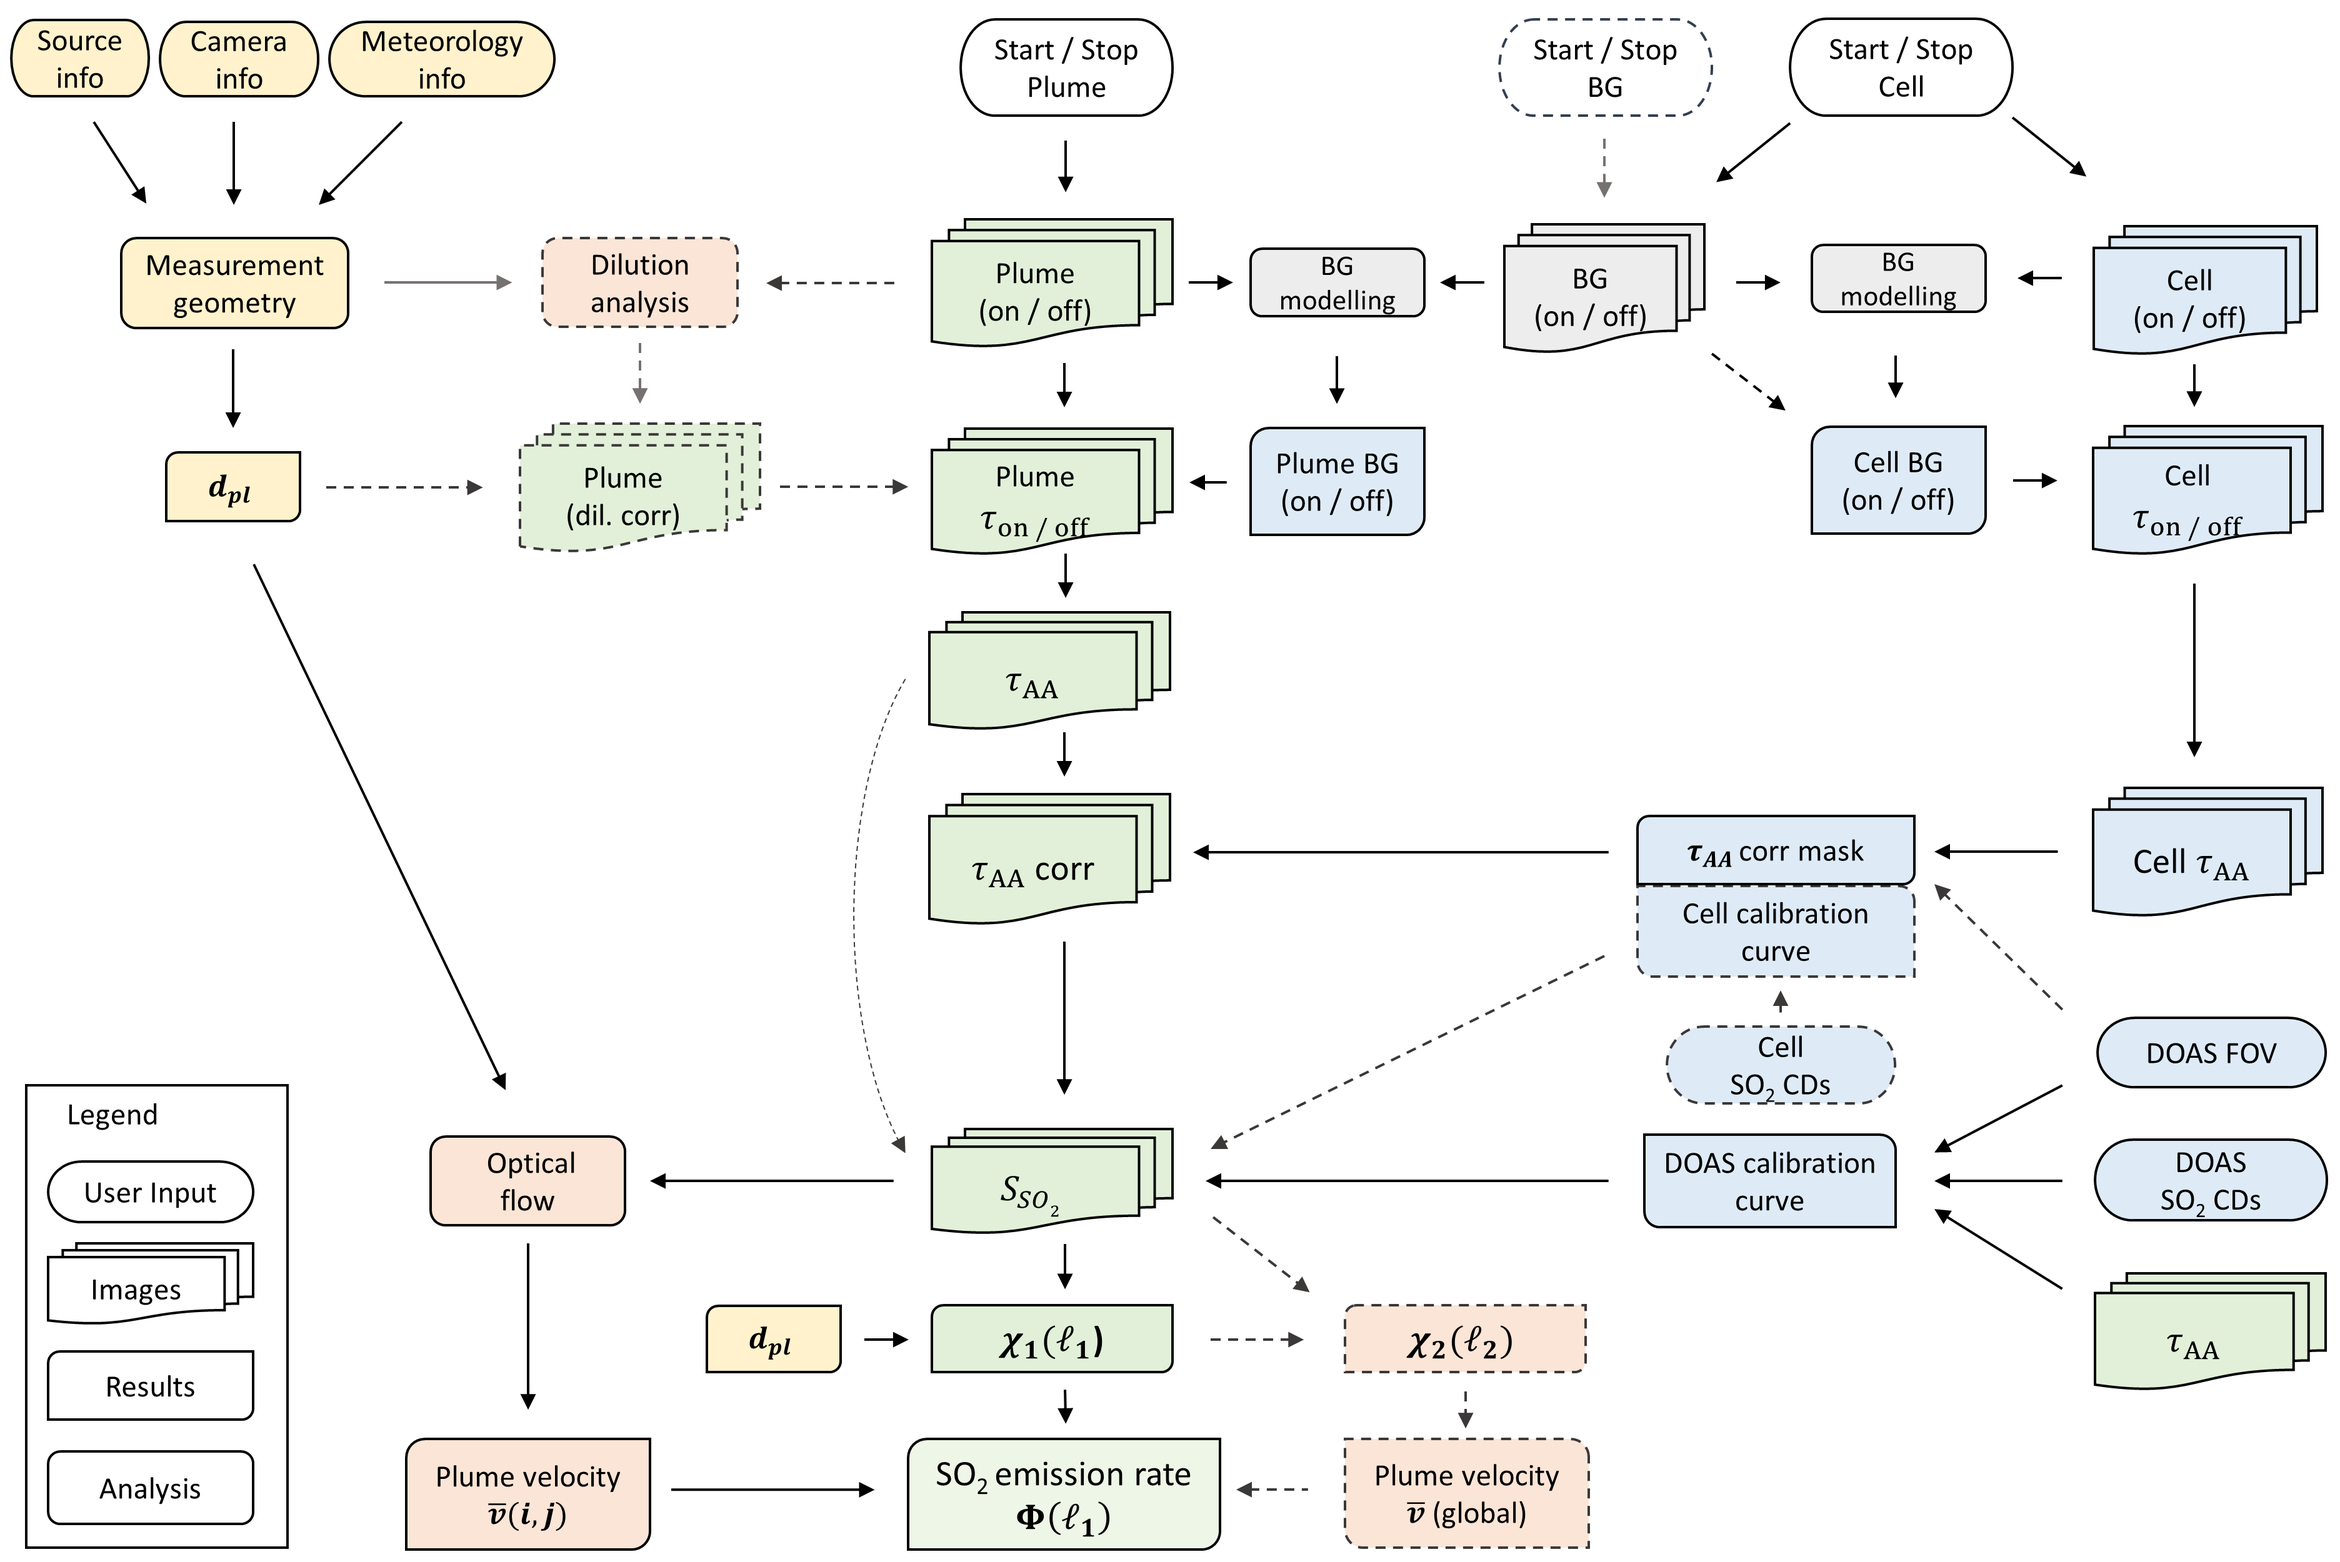
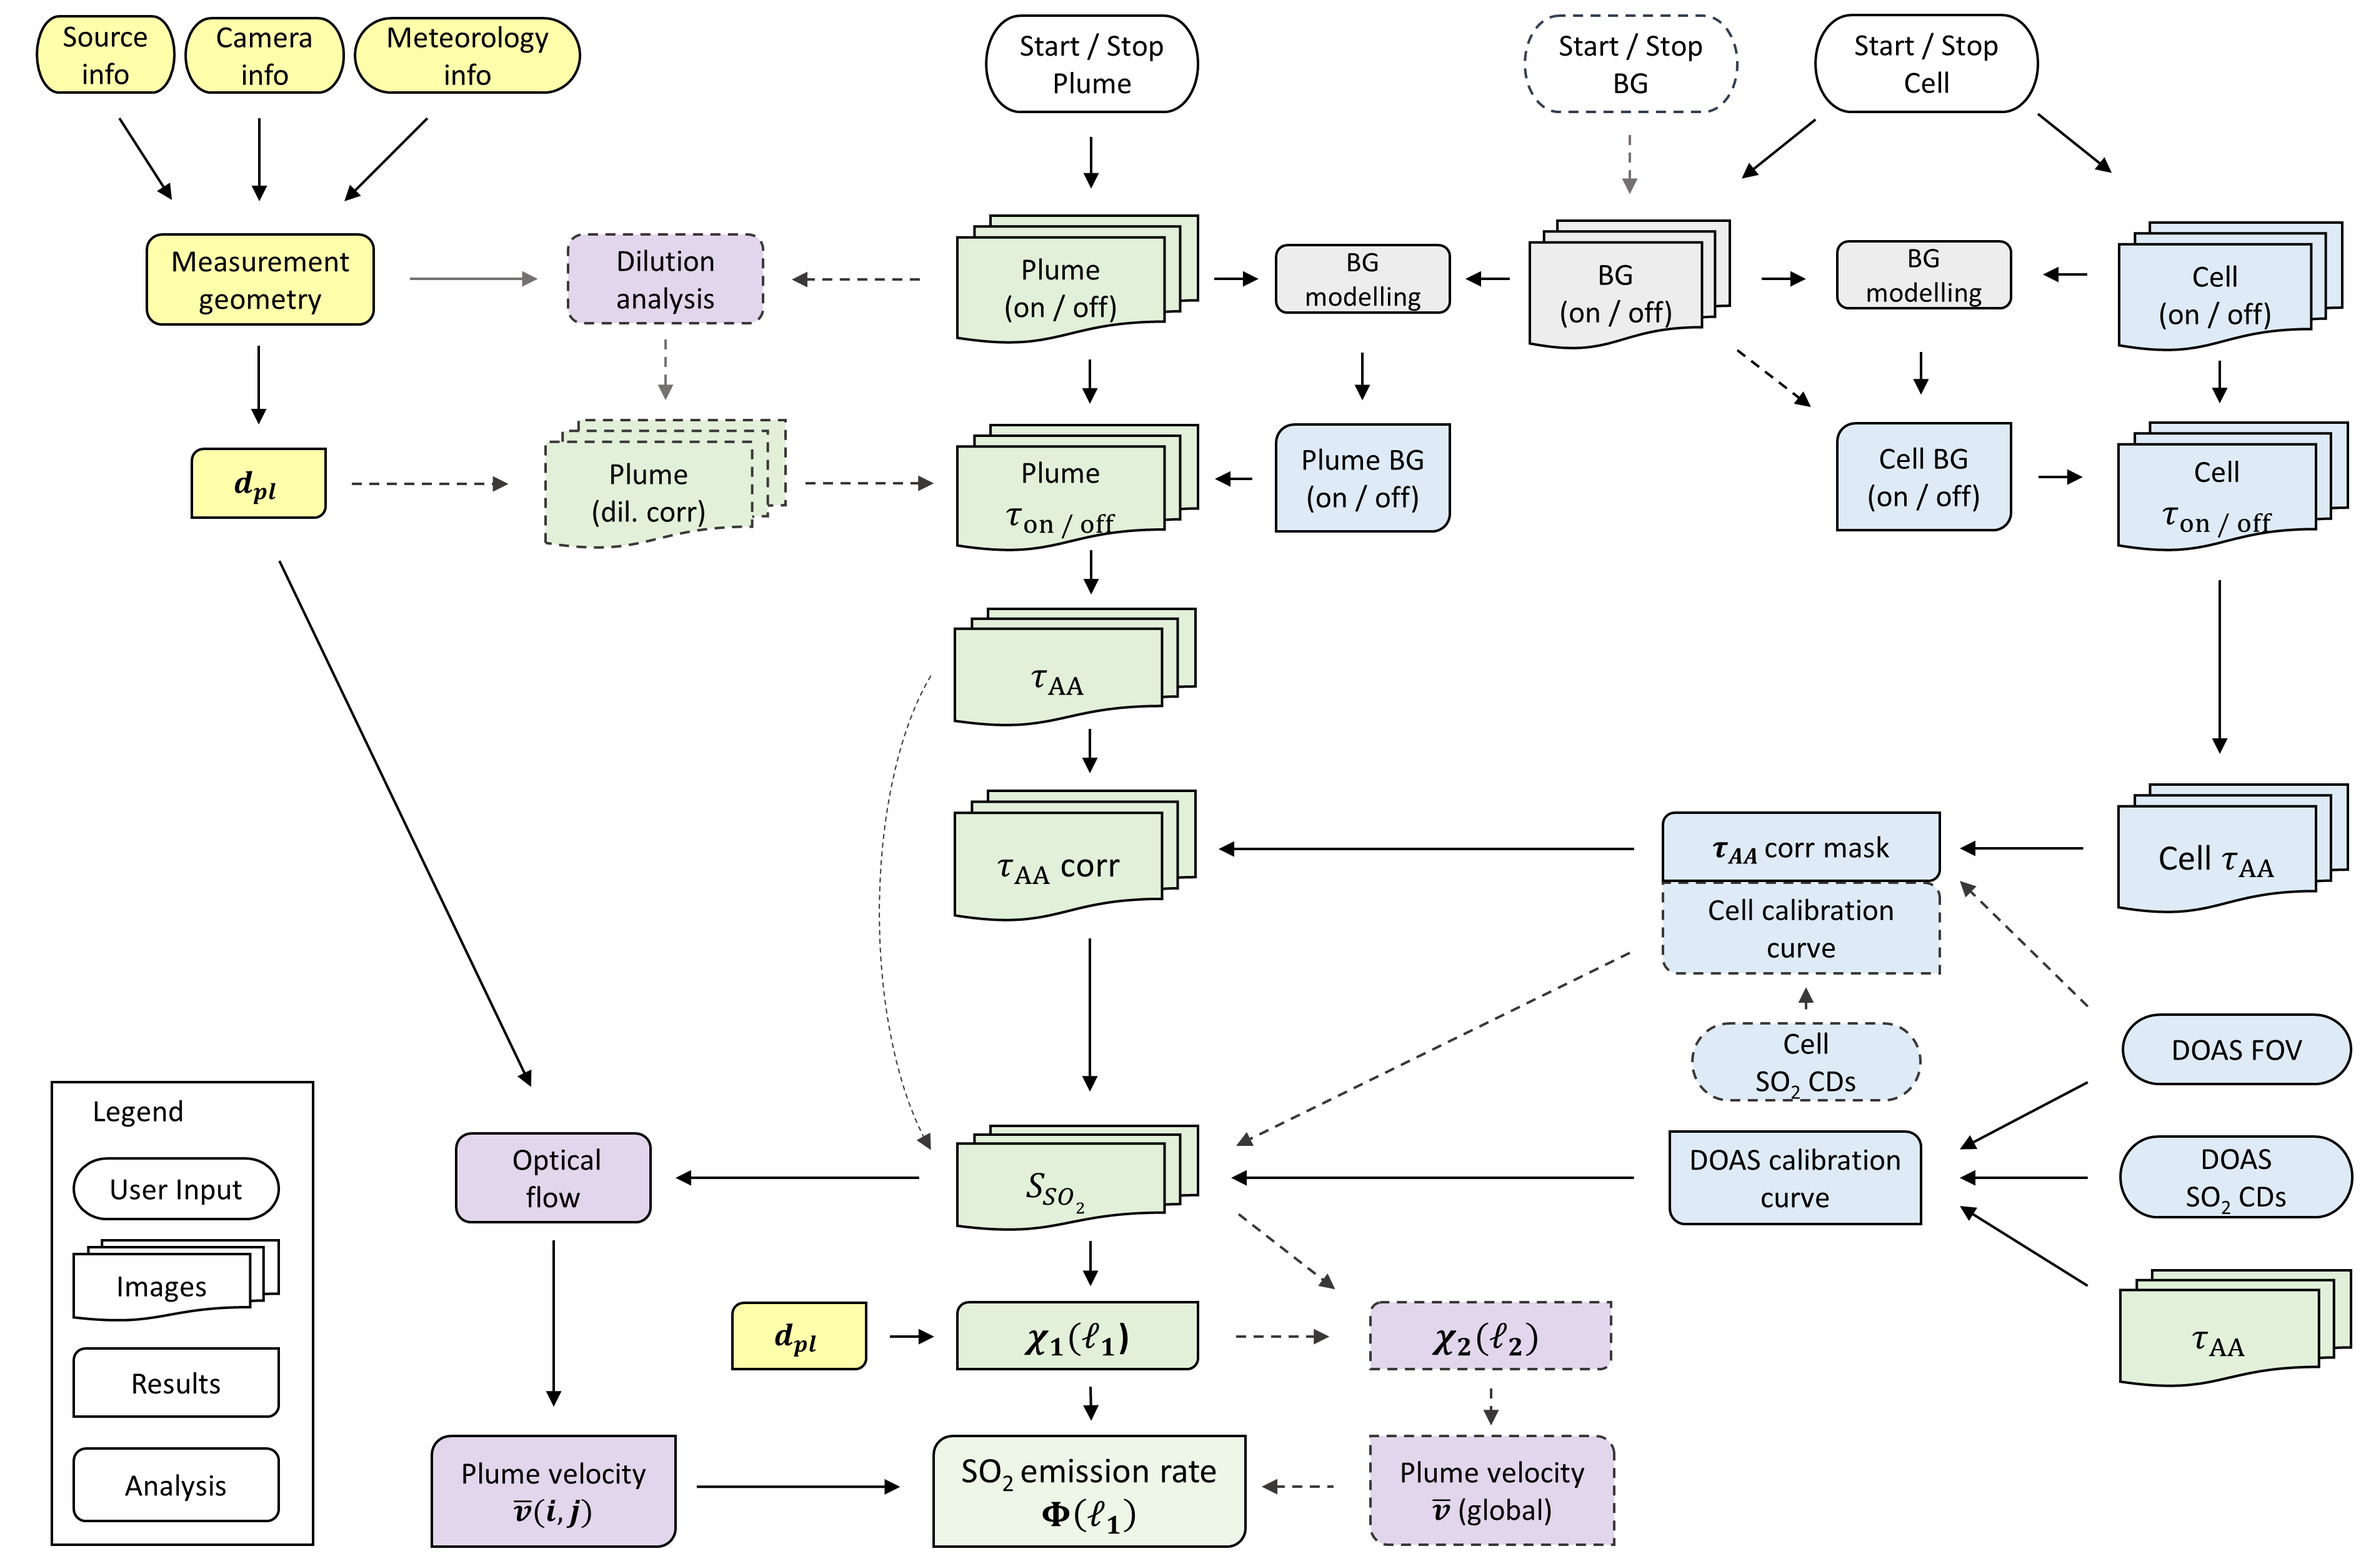
Added paper link and applied some minor changes in docs / README

diff --git a/scripts/ex11_signal_dilution.py b/scripts/ex11_signal_dilution.py
@@ -288,9 +288,9 @@ if __name__ == "__main__":
     
     # save the extinction coefficients into a txt file (re-used in example 
     # script 12). They are stored as pandas.Series object in the ImgList
-    
     onlist.ext_coeffs.to_csv(join(SAVE_DIR, "ex11_ext_scat_on.txt"))
     offlist.ext_coeffs.to_csv(join(SAVE_DIR, "ex11_ext_scat_off.txt"))
+    
     # now activate automatic dilution correction in both lists                                     
     #get dilution corrected on and off-band image
     onlist.dilcorr_mode =True
@@ -336,7 +336,7 @@ if __name__ == "__main__":
     # Calculate flux and uncertainty
     (phi_uncorr, 
      phi_uncorr_err) = pyplis.fluxcalc.det_emission_rate(cds=so2_cds_uncorr,
-                                                         velo=PLUME_VELO,
+                                                             velo=PLUME_VELO,
                                                          pix_dists=
                                                          pix_dists_line,
                                                          cds_err=

diff --git a/docs/tut_camdef.rst b/docs/tut_camdef.rst
@@ -1,9 +1,5 @@
 Data import - Specifying custom camera information
 ==================================================
-
-.. note::
-
-  In development, more information follows soon
   
 In order to use all features of pyplis, certain specifications related to camera and image acquisition need to be defined. Basic information about the camera (e.g. detector specifics) and the corresponding file convention (image type, which data can be extracted from file names) are specified within :class:`Camera` objects. This tutorial introduces the :class:`Camera` class and how to set up your custom camera type based on your data format, including definitions of your file naming convention.
 
@@ -21,12 +17,12 @@ Such a collection of :class:`Filter` and :class:`DarkOffsetInfo` objects is then
 
 These information is used to separate the individual image types when creating a :class:`Dataset` object. The latter searches all valid image files in a given folder ``IMG_DIR`` and creates :class:`ImgList` objects for each :class:`Filter` and :class:`DarkImgList` objects for each :class:`DarkOffsetInfo` object defined in the :class:`Camera`. Each of these lists is then filled with the file paths of the corresponding image type located in ``IMG_DIR``. The :class:`Camera` object furthermore includes relevant specs of the camera (e.g. pixel geometry, lens).
 
-The following list provides an overview of relevant parameters for filename access information using examplary filenames of the ECII camera type as well as the HD-Custom camera type.
+The following list provides an overview of relevant parameters for filename access information using examplary filenames of the ECII camera type.
 
 .. _tut_ecIIcam:
 
-Example 1: The ECII camera standard
------------------------------------
+The ECII camera standard
+------------------------
 
 In the following, an exemplary :class:`Camera` class is specified based on the ECII-camera standard and file naming convention (cf. :ref:`ex02`).
 
@@ -132,7 +128,7 @@ Similar to the filter setup (which specifies access to the actual images to be a
 
 .. note::
 
-  You might have recognised, that in the last 3 :class:`DarkOffsetInfo``  objects, the meas_type_acro was not specified. This is because it is actually irrelevant for the ECII camera which does not include a sub string specifying different measurement modi like, for instance, the HD-Custom camera (i.e. K, M, D, cf :ref:`tut_hdcam`).
+  You might have recognised, that in the last 3 :class:`DarkOffsetInfo``  objects, the meas_type_acro was not specified. This is because it is actually irrelevant for the ECII camera which does not include a sub string specifying different measurement modi like, for instance, the HD-Custom camera (i.e. K, M, D).
 
 Now that all different image types are specified, the camera needs to know where to find the actual information in the file names (after splitting using ``delim``). 
 The position of the strings specified in the attribute ``acronym`` (see definitions of the ``Filter`` and ``DarkOffsetInfo`` objects above) can be set using::
@@ -203,11 +199,3 @@ After saving the camera as new default, you can load it using::
   print cam
   
 Done!
-
-
-Example 2: The HD-Custom camera standard
-----------------------------------------
-
-.. note::
-
-  Information follows soon ...

diff --git a/docs/intro.rst b/docs/intro.rst
@@ -7,7 +7,9 @@ Preface
 Flowchart main analysis steps
 =============================
 
-.. thumbnail::  ./_graphics/01_flowchart_physical.PNG
+The following flowchart illustrates the main analysis steps for emission-rate retrievals using UV SO2 cameras. The colours indicate geometrical calculations (yellow), background modelling (light gray), camera calibration (light blue), plume speed retrieval (light purple) and the central processing steps for the emission-rate retrieval (light green). Shaded and dashed symbols indicate optional or alternative analysis methods.
+
+.. thumbnail::  ./_graphics/01_flowchart_physical.png
   :title:
   
   Flowchart showing the main analysis steps for emission rate retrievals
@@ -16,7 +18,9 @@ Flowchart main analysis steps
 Flowchart code hierarchy
 ========================
 
-.. thumbnail::  ./_graphics/03_flowchart_datastructure.png
+The following flowchart illustrates the most relevant classes / methods of the *Pyplis* API with a focus on the required routines for SO2 emission-rate retrievals. Italic denotations correspond to class names in Pyplis. Optional / alternative analysis procedures are indicated by dashed boxes. Setup classes (red) include relevant meta information and can be used to create Dataset objects (blue). The latter perform file separation by image type and create ImgList objects (green) for each type (e.g. on, off, dark). Further analysis classes are indicated in yellow. Note that the routine for signal dilution correction is not shown here.
+
+.. thumbnail::  ./_graphics/02_flowchart_datastructure.png
   :title:
   
   Flowchart illustrating the basic architecture of pyplis (note: the engine for signal dilution correction is not included here).

diff --git a/docs/index.rst b/docs/index.rst
@@ -11,7 +11,17 @@
 Welcome to Pyplis
 =================
 
-Official code documentation web page of pyplis. Apart from the documentation, the web page includes installation details, example scripts and introductory  tutorial showing how to define customised camera standards.
+Official code documentation website of *Pyplis*. Apart from the API documentation, this website includes general information about the software (e.g. installation details, access of example data) as well as useful practical information that helps getting started with *Pyplis*. 
+
+A paper introducing the software is in the process of being published in the Journal *Geosciences* (MDPI) (currently under revision). If you find *Pyplis* useful for your work, we highly appreciate if you acknowlegde our work by citing the `paper <https://www.preprints.org/manuscript/201710.0085/v1>`__ (currently a preprint).
+
+.. figure:: ./_graphics/preview_paper.png
+    :scale: 80%
+    :align: center
+    :alt: alternate text
+    :figclass: align-center
+    
+    Screenshot of the *Pyplis* `paper <https://www.preprints.org/manuscript/201710.0085/v1>`__. Please acknowledge our work by citing the paper. 
 
 The software can be downloded from the `Github page <https://github.com/jgliss/pyplis>`__ or installed via `PyPi <https://pypi.python.org/pypi/pyplis>`__ using::
 

diff --git a/README.rst b/README.rst
@@ -1,6 +1,15 @@
 Pyplis is a Python toolbox for the analysis of UV SO2 camera data. The software includes a comprehensive collection of algorithms for the analysis of such data.
 
-Contact: Jonas Gliss (jonasgliss@gmail.com) 
+Contact: Jonas Gliss (jonasgliss@gmail.com)
+
+Pyplis paper
+============
+
+A paper discussing the main features of *Pyplis* and implementation details is in the process of being published in the special issue on `Volcanic plumes <http://www.mdpi.com/journal/geosciences/special_issues/volcanic_processes>`__ of the Journal *Geosciences* (MDPI). Click `here, to download a citable preprint of the paper <https://www.preprints.org/manuscript/201710.0085/v1>`__.
+
+Citation
+--------
+If you find *Pyplis* useful for your data analysis, we would highly appreciate if you acknowledge our work by `citing the paper <https://www.preprints.org/manuscript/201710.0085/v1>`__.
 
 Note
 ====

diff --git a/docs/examples.rst b/docs/examples.rst
@@ -1,7 +1,7 @@
 ***************
 Example scripts
 ***************
-
+ 
 pyplis example scripts. The scripts require downloading the `pyplis test data <http://pyplis.readthedocs.io/en/latest/intro.html#example-and-test-data>`__.
 
 .. note::
